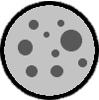
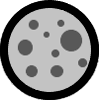
Swapped Moon Image
replaced 3px border moon image with 8px border moon image

Changed region(s): [[0.0, 0.0, 1.0, 1.0]]

diff --git a/assets/css/home.css b/assets/css/home.css
@@ -162,7 +162,7 @@ input:checked + .slider:before {
   -webkit-transform: translateX(26px) rotate(360deg);
   -ms-transform: translateX(26px) rotate(360deg);
   transform: translateX(26px) rotate(360deg);
-  background-image: url('/assets/img/moon.png');
+  background-image: url('/assets/img/moon-border8px.png');
 }
 
 @media (prefers-color-scheme: dark) {
